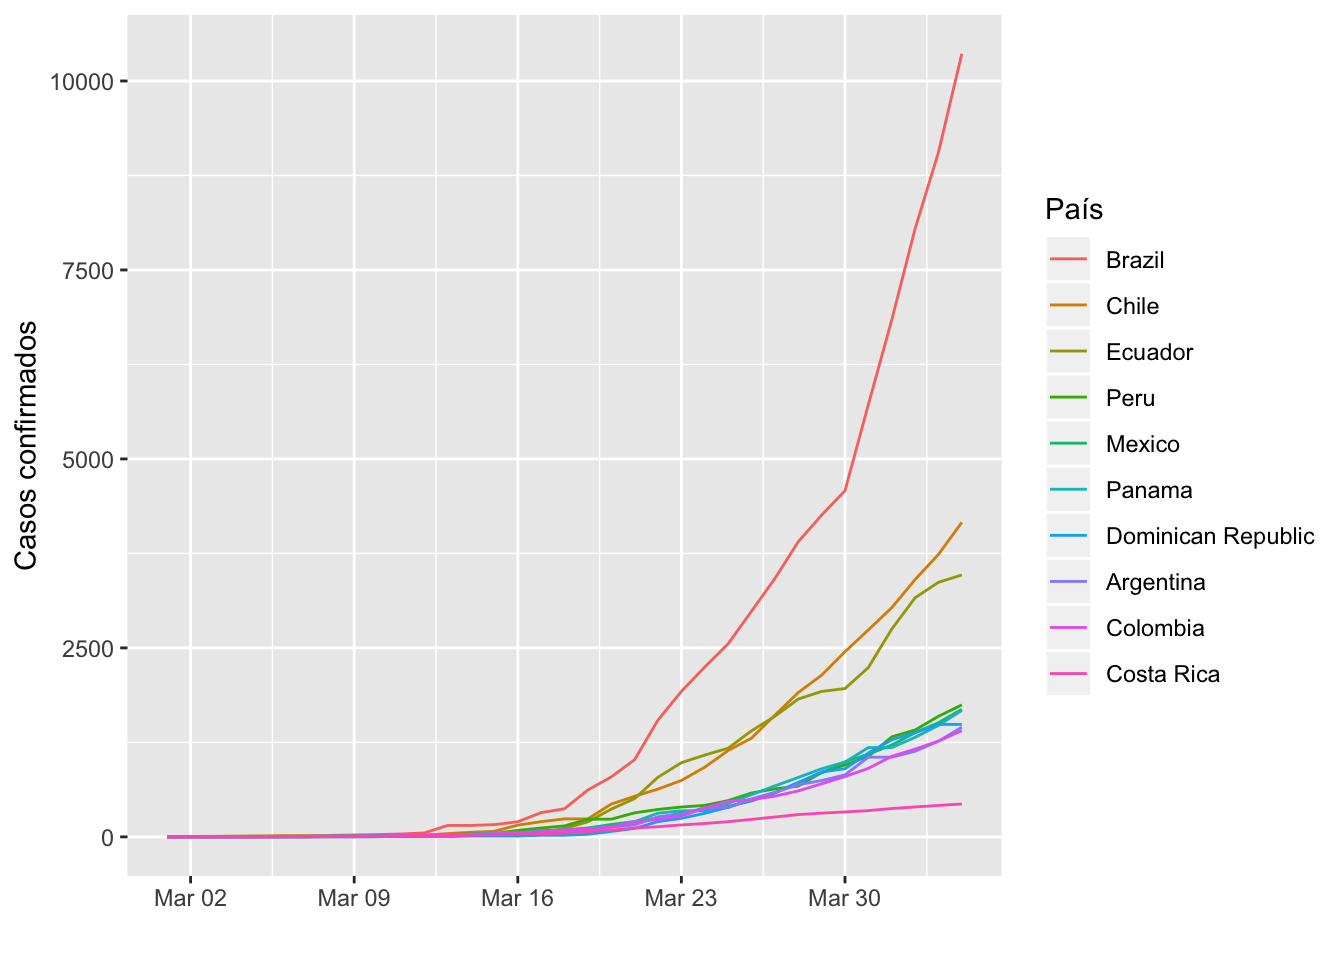
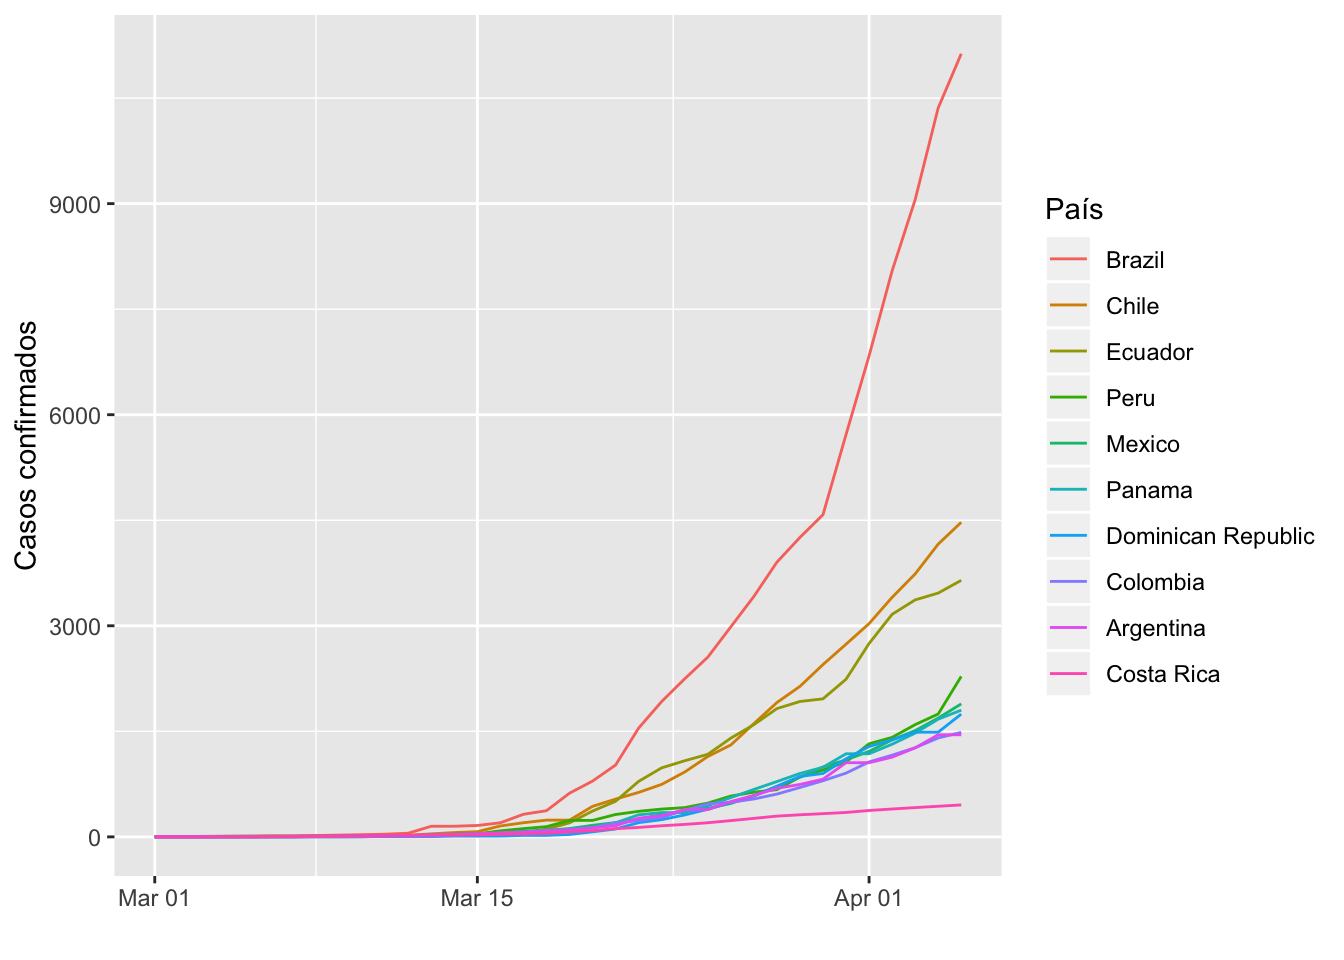
update

diff --git a/content/post/salud/2020-04-01-resumen-estadistico-sobre-el-coronavirus-en-ecuador-y-america-latina-marzo.html b/content/post/salud/2020-04-01-resumen-estadistico-sobre-el-coronavirus-en-ecuador-y-america-latina-marzo.html
@@ -2,7 +2,6 @@
 title: Resumen estadístico actualizado sobre el coronavirus en Ecuador y América Latina
 authors: 
   - Alonso Quijano
-
 slug: post/salud/resumen-estadistico-brote-coronavirus-ecuador-america-latina.md
 categories:
   - Salud
@@ -26,17 +25,17 @@ images:
 <script src="/rmarkdown-libs/crosstalk/js/crosstalk.min.js"></script>
 
 
-<p>El 29 de febrero de 2020, el Ecuador se convirtió en el tercer país en América Latina en confirmar su primer caso de Covid-19. Brasil y México fueron los primeros. En tan solo un mes, el virus logró propagarese en todos los países de la región y hasta ayer, 2020-04-04, se contabilizaron 29357 casos confirmados, 1015 fallecidos y 2902 recuperados.</p>
-<p><strong>NOTA:</strong> Todas las estadísticas están actualizadas al <strong>sábado, 4 de abril de 2020</strong>. Los datos se actualizan automáticamente todos los día en la mañana con los datos del día anterior.</p>
+<p>El 29 de febrero de 2020, el Ecuador se convirtió en el tercer país en América Latina en confirmar su primer caso de Covid-19. Brasil y México fueron los primeros. En tan solo un mes, el virus logró propagarese en todos los países de la región y hasta ayer, 2020-04-05, se contabilizaron 31912 casos confirmados, 1133 fallecidos y 3079 recuperados.</p>
+<p><strong>NOTA:</strong> Todas las estadísticas están actualizadas al <strong>domingo, 5 de abril de 2020</strong>. Los datos se actualizan automáticamente todos los día en la mañana con los datos del día anterior.</p>
 <p><strong>Tabla 1. Número de casos confirmados, fallecidos, y recuperados por país</strong></p>
 <div id="htmlwidget-1" style="width:100%;height:auto;" class="datatables html-widget"></div>
-<script type="application/json" data-for="htmlwidget-1">{"x":{"filter":"none","data":[["1","2","3","4","5","6","7","8","9","10","11","12","13","14","15","16","17","18","19","20"],["Brazil","Chile","Ecuador","Peru","Mexico","Panama","Dominican Republic","Argentina","Colombia","Costa Rica","Uruguay","Cuba","Honduras","Venezuela","Bolivia","Paraguay","Guatemala","El Salvador","Haiti","Nicaragua"],[10360,4161,3465,1746,1688,1673,1488,1451,1406,435,400,288,264,155,139,96,61,56,20,5],[445,27,172,73,60,41,68,43,32,2,5,6,15,7,10,3,2,3,0,1],[127,528,100,914,633,13,16,279,85,13,93,15,3,52,1,12,15,2,1,0]],"container":"<table class=\"display\">\n  <thead>\n    <tr>\n      <th> <\/th>\n      <th>País<\/th>\n      <th>Casos confirmados<\/th>\n      <th>Fallecidos<\/th>\n      <th>Recuperados<\/th>\n    <\/tr>\n  <\/thead>\n<\/table>","options":{"pageLength":5,"lengthMenu":[5,10,15,20],"columnDefs":[{"className":"dt-right","targets":[2,3,4]},{"orderable":false,"targets":0}],"order":[],"autoWidth":false,"orderClasses":false}},"evals":[],"jsHooks":[]}</script>
+<script type="application/json" data-for="htmlwidget-1">{"x":{"filter":"none","data":[["1","2","3","4","5","6","7","8","9","10","11","12","13","14","15","16","17","18","19","20"],["Brazil","Chile","Ecuador","Peru","Mexico","Panama","Dominican Republic","Colombia","Argentina","Costa Rica","Uruguay","Cuba","Honduras","Venezuela","Bolivia","Paraguay","El Salvador","Guatemala","Haiti","Nicaragua"],[11130,4471,3646,2281,1890,1801,1745,1485,1451,454,400,320,268,159,157,104,62,61,21,6],[486,34,180,83,79,46,82,35,44,2,5,8,22,7,10,3,3,2,1,1],[127,618,100,989,633,13,17,88,280,16,93,15,6,52,2,12,2,15,1,0]],"container":"<table class=\"display\">\n  <thead>\n    <tr>\n      <th> <\/th>\n      <th>País<\/th>\n      <th>Casos confirmados<\/th>\n      <th>Fallecidos<\/th>\n      <th>Recuperados<\/th>\n    <\/tr>\n  <\/thead>\n<\/table>","options":{"pageLength":5,"lengthMenu":[5,10,15,20],"columnDefs":[{"className":"dt-right","targets":[2,3,4]},{"orderable":false,"targets":0}],"order":[],"autoWidth":false,"orderClasses":false}},"evals":[],"jsHooks":[]}</script>
 <p>A pesar de las medidas que impuso el gobierno ecuatoriano a inicios de marzo, es difícil afirmar que estas has sido los suficientemente efectivas para desacelerar el crecimiento de casos confirmados y muertes por Covid-19. Otros países también han tomado medidas, pero aún así el virus ha logrado esparcirse en toda la región. Aquí te mostramos dos mapas.</p>
 <p><strong>Mapa 1. Evolución de número de casos confirmados en América Latina</strong> <img src="/post/salud/2020-04-01-resumen-estadistico-sobre-el-coronavirus-en-ecuador-y-america-latina-marzo_files/figure-html/unnamed-chunk-5.gif" width="672" /> Fuente: Center for Systems Science and Engineering (CSSE) de Johns Hopkins University</p>
 <p><strong>Mapa 2. Evolución de número de fallecidos en América Latina</strong> <img src="/post/salud/2020-04-01-resumen-estadistico-sobre-el-coronavirus-en-ecuador-y-america-latina-marzo_files/figure-html/unnamed-chunk-6.gif" width="672" /> Fuente: Center for Systems Science and Engineering (CSSE) de Johns Hopkins University</p>
 <p>El 14 de marzo, el vicepresidente Otto Sonnenholzner anunció el cierre de fronteras a partir del lunes 16 de marzo a las 13:59. Otros países también han tomado medidas similares. A mediados de marzo, Perú también cerró sus fronteras. Colombia lo hizo 23 de marzo. Sin embargo, a finales de marzo Brazil ya alcanza casi seis mil casos confirmados, Chile los tres mil y Ecuador ya supera los dos mil.</p>
 <p><strong>Gráfico 1. Evolución del número de casos confirmados por país en América Latina</strong></p>
 <p><img src="/post/salud/2020-04-01-resumen-estadistico-sobre-el-coronavirus-en-ecuador-y-america-latina-marzo_files/figure-html/unnamed-chunk-7-1.png" width="672" /> Fuente: Center for Systems Science and Engineering (CSSE) de Johns Hopkins University</p>
-<p>Panamá, Chile y Ecuador son los países con mayor número de casos confirmados por cada millón de habitantes. Así mismo, Panamá y República Dominicana y Ecuador cuentan con el mayor número de fallecidos por cada millón de habitantes. En Ecuador, por cada millón de habitantes, existen 202.8 casos confirmados y 10.1 fallecidos. Te ofrecemos más detalle en la siguiente tabla.</p>
+<p>Panamá, Chile y Ecuador son los países con mayor número de casos confirmados por cada millón de habitantes. Así mismo, Panamá y República Dominicana y Ecuador cuentan con el mayor número de fallecidos por cada millón de habitantes. En Ecuador, por cada millón de habitantes, existen 213.4 casos confirmados y 10.5 fallecidos. Te ofrecemos más detalle en la siguiente tabla.</p>
 <p><strong>Tabla 2. Número de casos confirmados y fallecidos por cada millón de habitantes</strong> <div id="htmlwidget-2" style="width:100%;height:auto;" class="datatables html-widget"></div>
-<script type="application/json" data-for="htmlwidget-2">{"x":{"filter":"none","data":[["1","2","3","4","5","6","7","8","9","10","11","12","13","14","15","16","17","18","19","20"],["Brazil","Chile","Ecuador","Peru","Mexico","Panama","Dominican Republic","Argentina","Colombia","Costa Rica","Uruguay","Cuba","Honduras","Venezuela","Bolivia","Paraguay","Guatemala","El Salvador","Haiti","Nicaragua"],[10360,4161,3465,1746,1688,1673,1488,1451,1406,435,400,288,264,155,139,96,61,56,20,5],[445,27,172,73,60,41,68,43,32,2,5,6,15,7,10,3,2,3,0,1],[49.5,222.2,202.8,54.6,13.4,400.5,140,32.6,28.3,87,116,25.4,27.5,5.4,12.2,13.8,3.5,8.7,1.8,0.8],[2.1,1.4,10.1,2.3,0.5,9.8,6.4,1,0.6,0.4,1.4,0.5,1.6,0.2,0.9,0.4,0.1,0.5,0,0.2]],"container":"<table class=\"display\">\n  <thead>\n    <tr>\n      <th> <\/th>\n      <th>País<\/th>\n      <th>Casos confirmados<\/th>\n      <th>Fallecidos<\/th>\n      <th>Casos por cada millón<\/th>\n      <th>Fallecidos por cada millón<\/th>\n    <\/tr>\n  <\/thead>\n<\/table>","options":{"pageLength":5,"lengthMenu":[5,10,15,20],"columnDefs":[{"className":"dt-right","targets":[2,3,4,5]},{"orderable":false,"targets":0}],"order":[],"autoWidth":false,"orderClasses":false}},"evals":[],"jsHooks":[]}</script> Fuente: Center for Systems Science and Engineering (CSSE) de Johns Hopkins University (datos del Covid-19) y Banco Mundial (datos poblacionales proyectados al 2018)</p>
+<script type="application/json" data-for="htmlwidget-2">{"x":{"filter":"none","data":[["1","2","3","4","5","6","7","8","9","10","11","12","13","14","15","16","17","18","19","20"],["Brazil","Chile","Ecuador","Peru","Mexico","Panama","Dominican Republic","Colombia","Argentina","Costa Rica","Uruguay","Cuba","Honduras","Venezuela","Bolivia","Paraguay","El Salvador","Guatemala","Haiti","Nicaragua"],[11130,4471,3646,2281,1890,1801,1745,1485,1451,454,400,320,268,159,157,104,62,61,21,6],[486,34,180,83,79,46,82,35,44,2,5,8,22,7,10,3,3,2,1,1],[53.1,238.7,213.4,71.3,15,431.2,164.2,29.9,32.6,90.8,116,28.2,28,5.5,13.8,15,9.7,3.5,1.9,0.9],[2.3,1.8,10.5,2.6,0.6,11,7.7,0.7,1,0.4,1.4,0.7,2.3,0.2,0.9,0.4,0.5,0.1,0.1,0.2]],"container":"<table class=\"display\">\n  <thead>\n    <tr>\n      <th> <\/th>\n      <th>País<\/th>\n      <th>Casos confirmados<\/th>\n      <th>Fallecidos<\/th>\n      <th>Casos por cada millón<\/th>\n      <th>Fallecidos por cada millón<\/th>\n    <\/tr>\n  <\/thead>\n<\/table>","options":{"pageLength":5,"lengthMenu":[5,10,15,20],"columnDefs":[{"className":"dt-right","targets":[2,3,4,5]},{"orderable":false,"targets":0}],"order":[],"autoWidth":false,"orderClasses":false}},"evals":[],"jsHooks":[]}</script> Fuente: Center for Systems Science and Engineering (CSSE) de Johns Hopkins University (datos del Covid-19) y Banco Mundial (datos poblacionales proyectados al 2018)</p>
